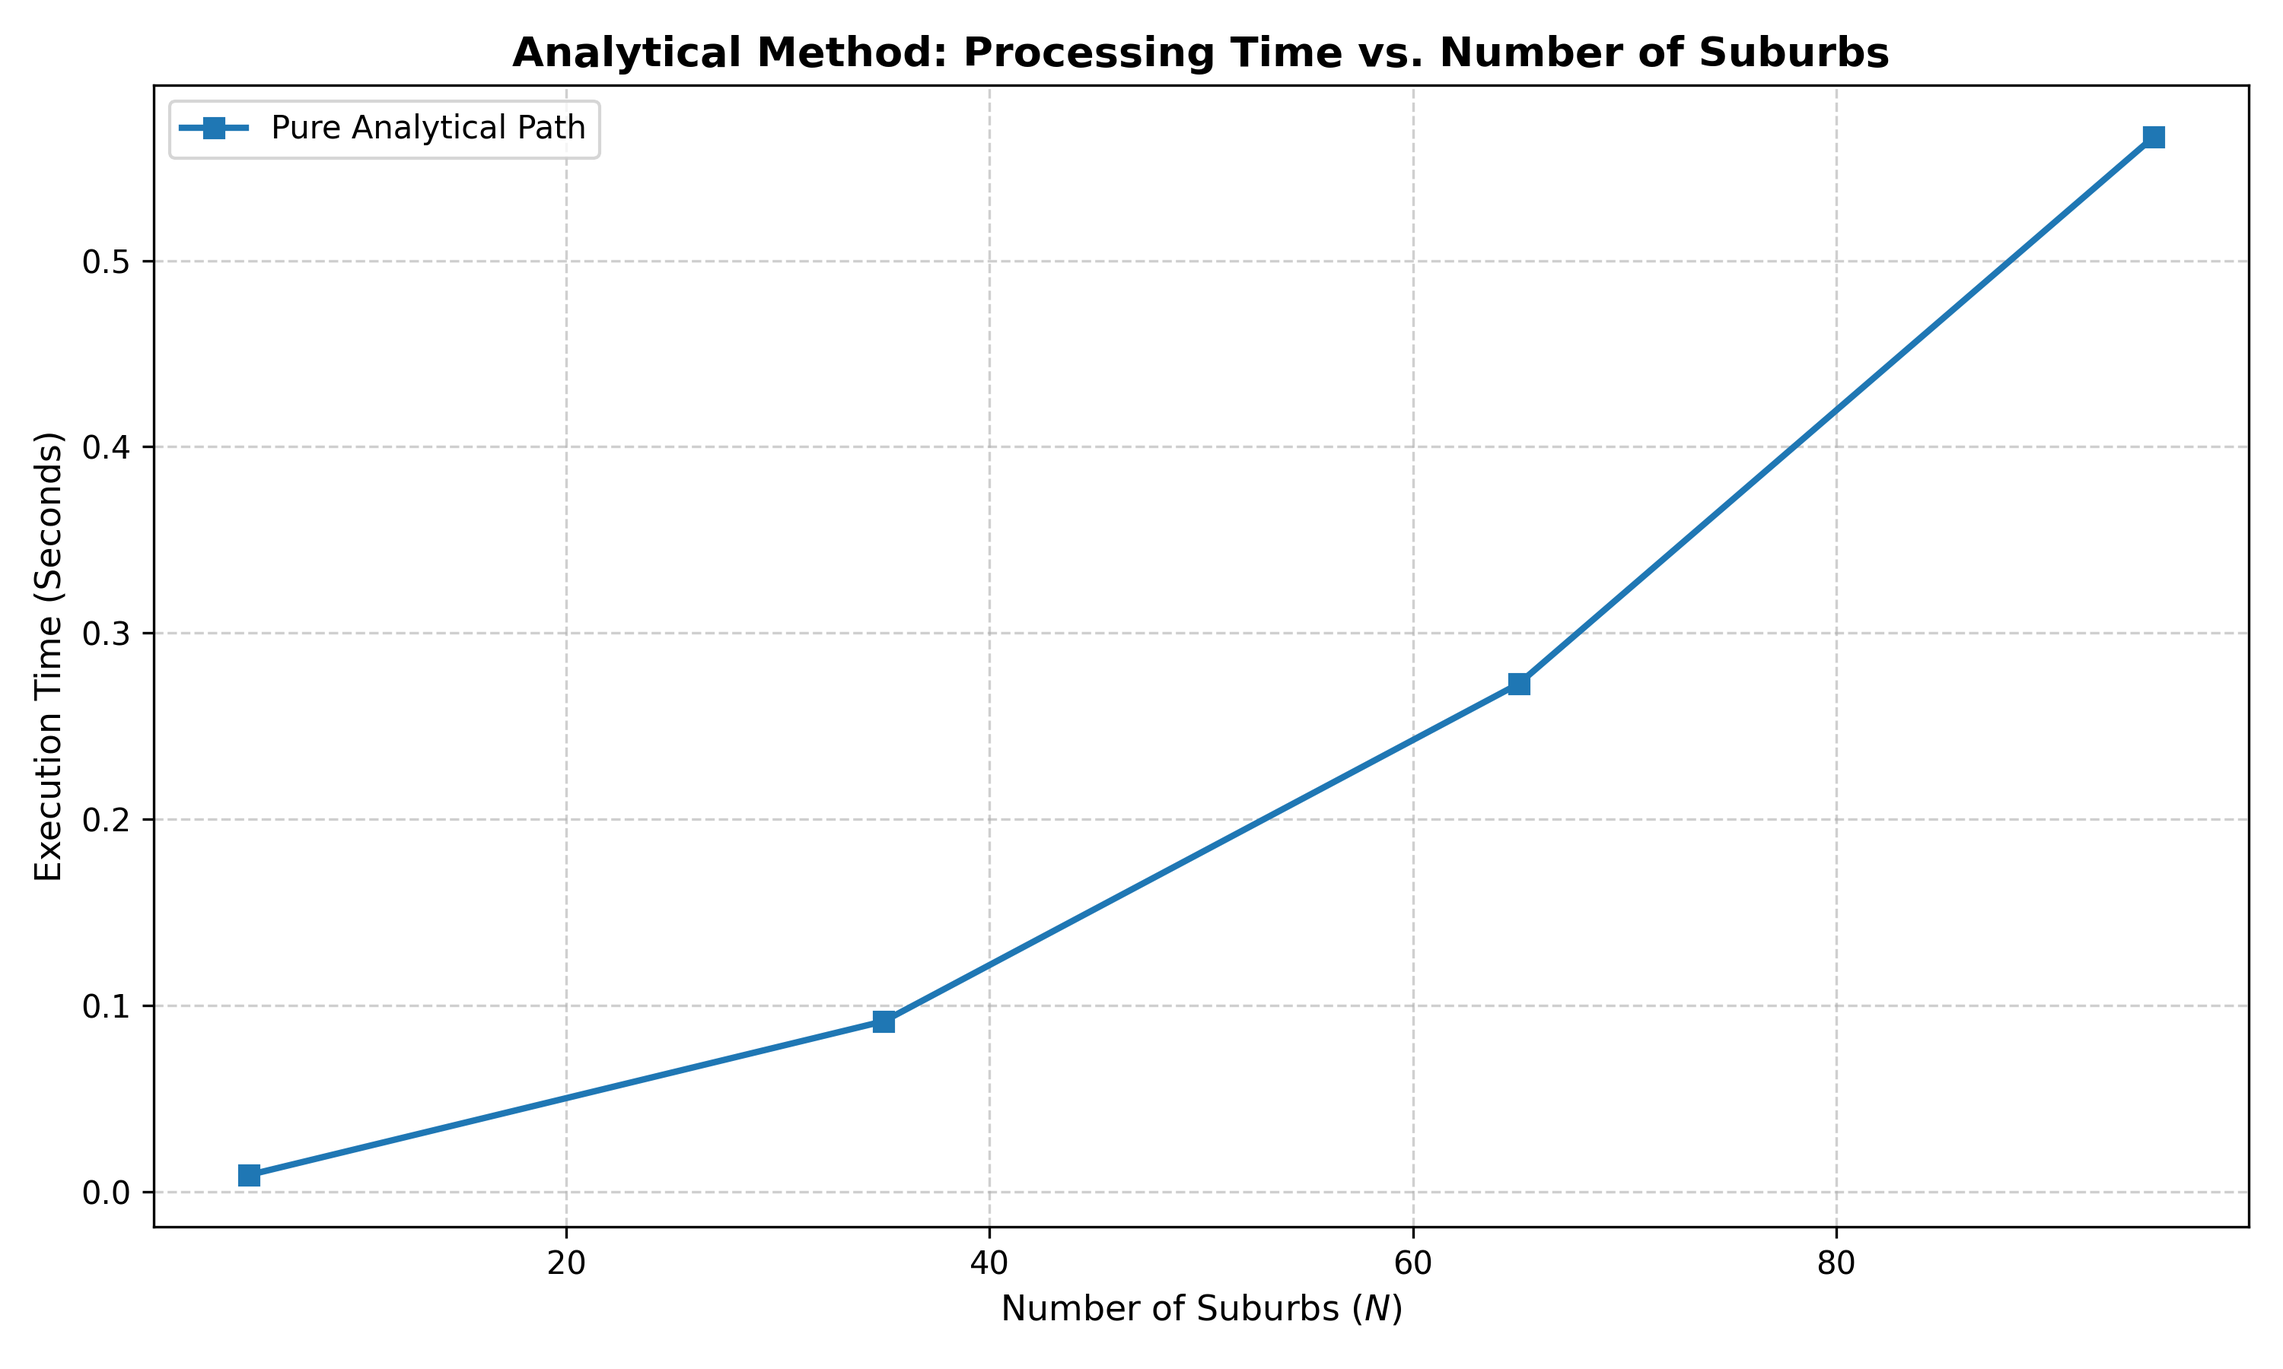
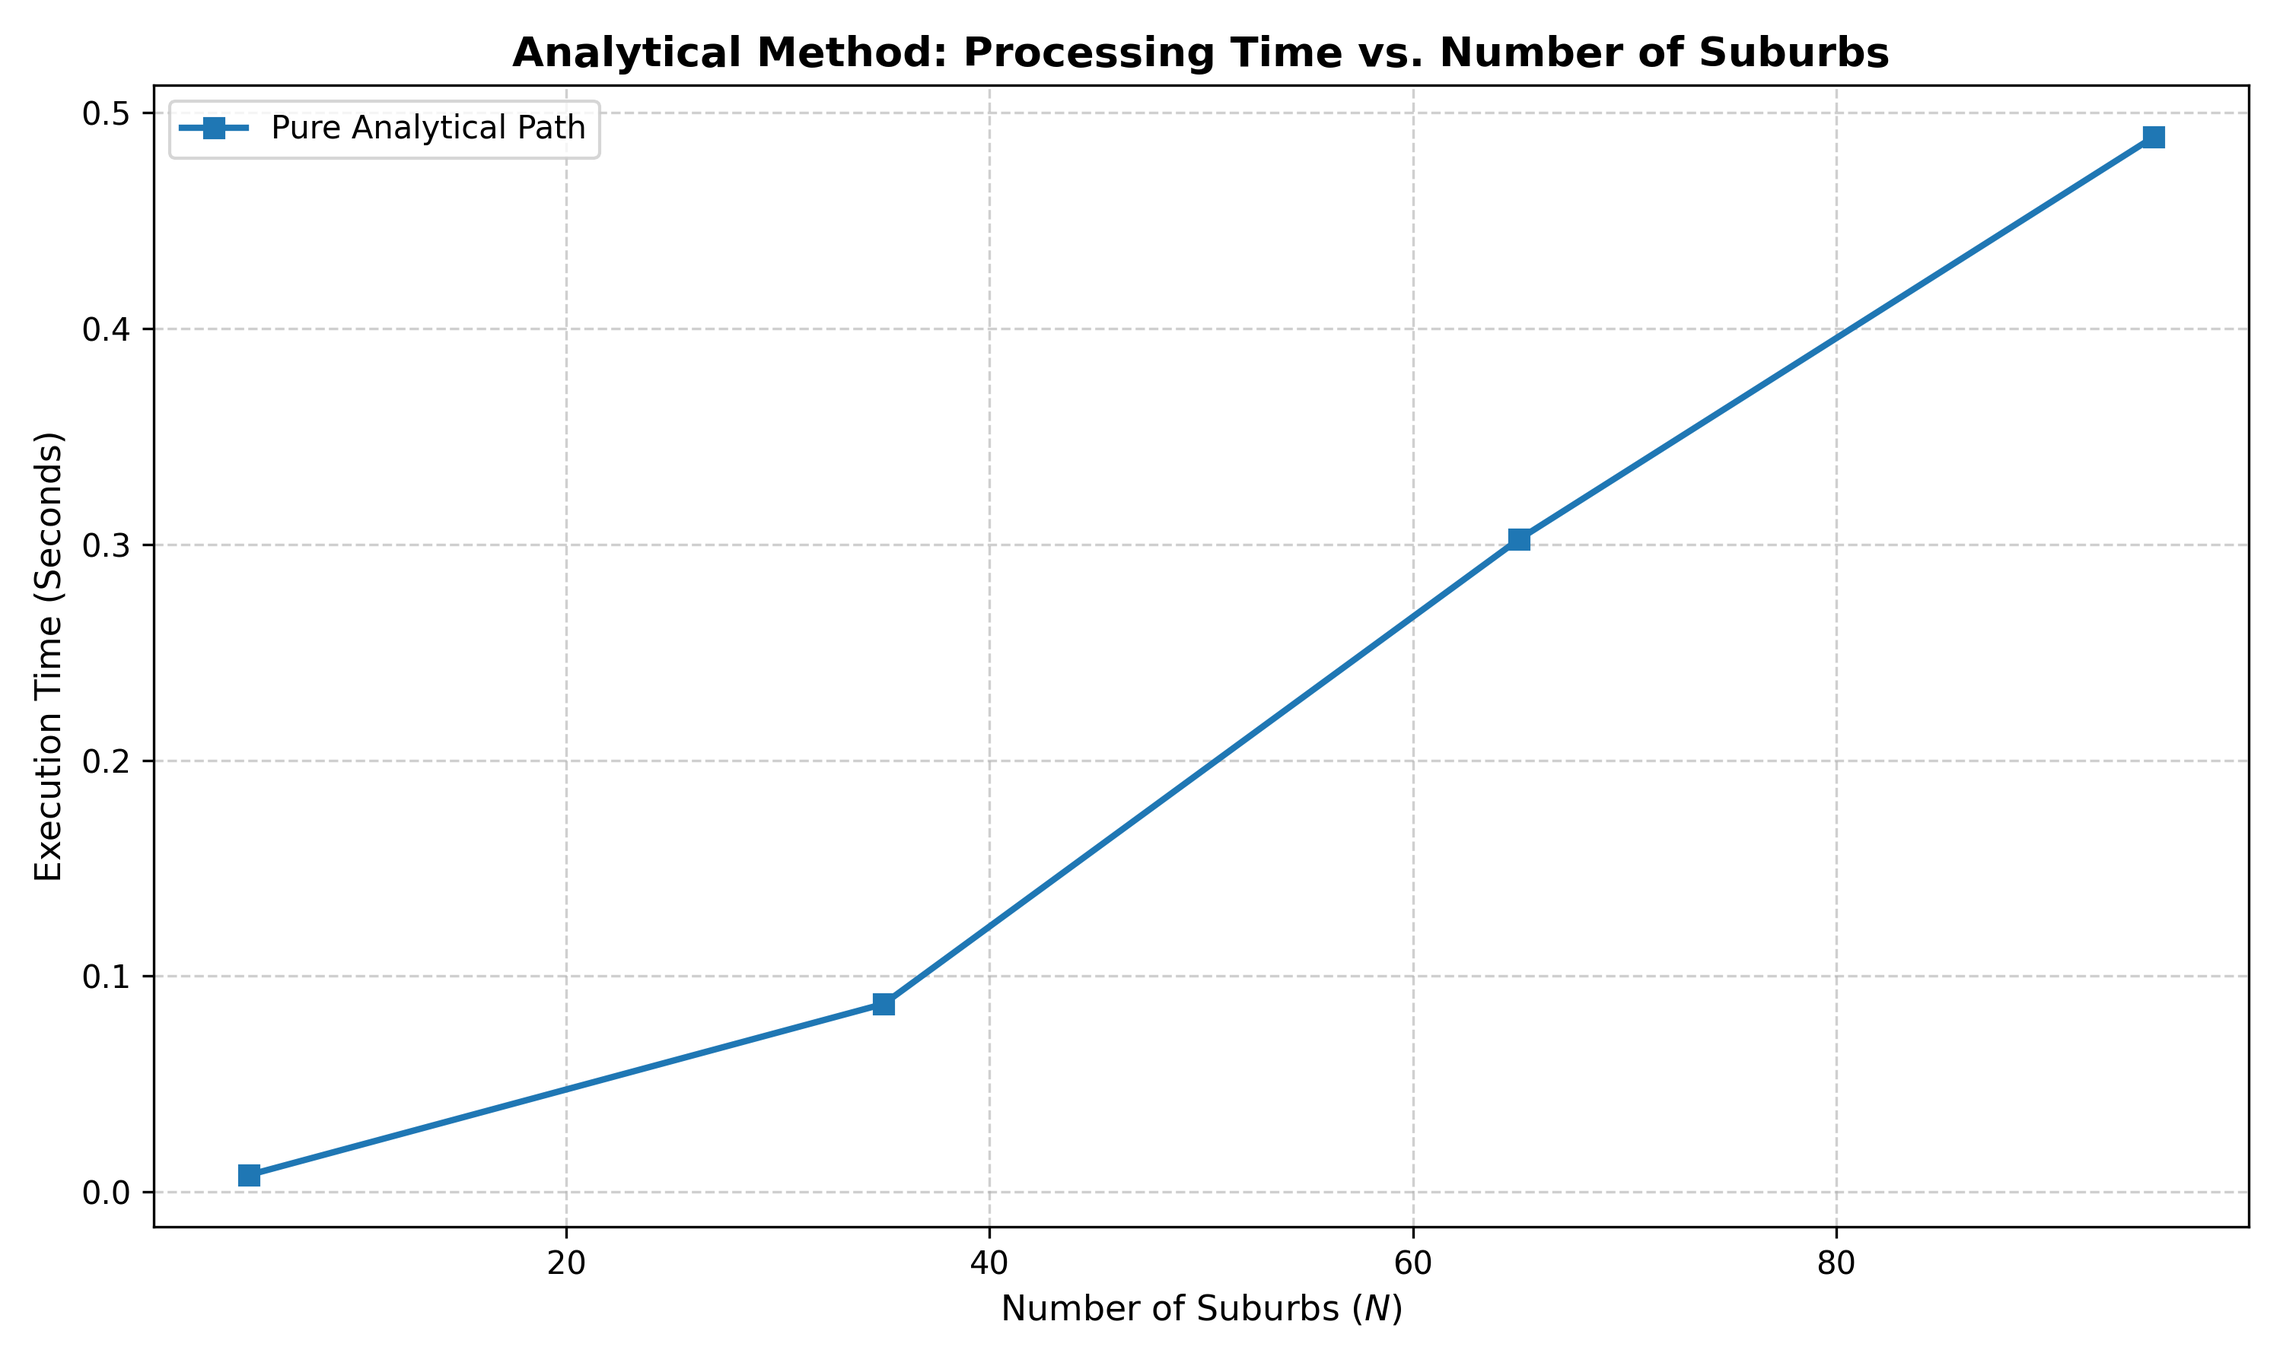
edited graphs

diff --git a/subway.py b/subway.py
@@ -61,6 +61,7 @@ def compute_c_prime(L, df, a):
 
     return c_prime_sum
 
+# function to find the best main_length using binary search
 def find_best_L_analytical(df, a, epsilon=1e-6):
     # absolute maximum upper bound based on furthest suburb
     max_search_bound = float(df["suburb_y"].max())
@@ -153,6 +154,129 @@ def get_optimal_connection(df, main_length, a): # C*(L)
 
     return actual_connections, total_network_cost
 
+def draw_steps(df, a, colors = ["green", "orange", "purple", "#ff7f0e", "#17becf"]):
+    fig, axes = plt.subplots(2, 3, figsize=(16, 10), sharex=True, sharey=True)
+    axes = axes.flatten()
+
+    suburbs = df.copy()
+    suburbs["star_y"] = [get_star_point_analytical(x, y, a) for x, y in zip(suburbs["suburb_x"], suburbs["suburb_y"])]
+    suburbs = suburbs.sort_values(by="star_y").reset_index(drop=True)
+
+    star_1 = suburbs["star_y"].iloc[0]
+    star_2 = suburbs["star_y"].iloc[1]
+    star_3 = suburbs["star_y"].iloc[2]
+
+    panel_titles = [
+        "Start w/ downtown and suburbs",
+        "Find a suburb's star point",
+        "Identify all ideal star points",
+        "Try everything up to first star point",
+        "Try up to second star point",
+        "Repeat for all star points"
+    ]
+
+    for i in range(6):
+        ax = axes[i]
+        ax.grid(True, linestyle="--", alpha=0.5)
+        ax.set_xlim(-3, 3)
+        ax.set_ylim(-0.5, main_length + 0.5)
+
+        # downtown at (0, 0)
+        ax.scatter(0, 0, color="black", s=300, zorder=6, label = "Downtown")
+
+        # panel 1: just downtown and suburbs
+        if i == 0:
+            for idx, row in suburbs.iterrows():
+                sub_color = colors[idx % len(colors)]
+                ax.scatter(row["suburb_x"], row["suburb_y"], color=sub_color, s=90, edgecolors="black", zorder=4, label = "Suburb " + str(idx + 1))
+                ax.legend(loc="lower left", fontsize=8, markerscale=0.7, labelspacing=1)
+
+        # panel 2: finding one star point
+        elif i == 1:
+            ax.plot([0, 0], [0, float(suburbs["suburb_y"].max())], color="black", linewidth=3, zorder=2)
+
+            target_idx = len(suburbs)-1
+            target_sub = suburbs.iloc[target_idx]
+            sub_color = colors[target_idx % len(colors)]
+
+            # draws line, suburb, and star
+            ax.scatter(target_sub["suburb_x"], target_sub["suburb_y"], color=sub_color, s=90, edgecolors="black", zorder=4)
+            ax.scatter(0, target_sub["star_y"], color=sub_color, marker="*", s=120, edgecolors="black", zorder=4, label = "Ideal Star Point")
+            ax.plot([target_sub["suburb_x"], 0], [target_sub["suburb_y"], target_sub["star_y"]], color=sub_color, linestyle="-", zorder=3)
+
+            # draws checked lines
+            label = "Trials"
+            for check_y in np.linspace(0, float(suburbs["suburb_y"].max()), 5):
+                if not np.isclose(check_y, target_sub["star_y"]):
+                    ax.plot([target_sub["suburb_x"], 0], [target_sub["suburb_y"], check_y], color=sub_color, linestyle="--", alpha=0.4, zorder=3, label=label)
+                label = None
+            ax.legend(loc="lower left", fontsize=8, markerscale=0.7, labelspacing = 1)   
+
+        # panel 3: show all suburbs with their star points
+        elif i == 2:
+            ax.plot([0, 0], [0, float(suburbs["suburb_y"].max())], color="black", linewidth=3, zorder=2)
+            for idx, row in suburbs.iterrows():
+                sub_color = colors[idx % len(colors)]
+                ax.scatter(row["suburb_x"], row["suburb_y"], color=sub_color, s=90, edgecolors="black", zorder=4)
+                ax.scatter(0, row["star_y"], color=sub_color, marker="*", s=120, edgecolors="black", zorder=4)
+                ax.plot([row["suburb_x"], 0], [row["suburb_y"], row["star_y"]], color=sub_color, linewidth=1.5, alpha=0.6)
+            
+
+        else:
+            # panel 4: up to first star
+            if i == 3:
+                trial_lengths = np.linspace(0.1, star_1, 4)
+            # panel 4: up to second star
+            elif i == 4:
+                trial_lengths = np.linspace(star_1, star_2, 4)
+            # panel 5: up to third star
+            else:
+                trial_lengths = np.linspace(star_2, star_3, 4)
+
+            for trial_L in trial_lengths:
+                ax.plot([0, 0], [0, trial_L], color="black", linewidth=3, alpha=0.4, zorder=2)
+                trial_conns, _ = get_optimal_connection(suburbs, trial_L, a)
+                ax.scatter(0, trial_L, color="black", marker="_", s=150, linewidths=2, alpha=0.6, zorder=3)
+
+                for idx, row in suburbs.iterrows():
+                    sub_color = colors[idx % len(colors)]
+                    conn_y = trial_conns[idx]
+                    line_style = "-" if np.isclose(conn_y, row["star_y"]) else "--"
+                    
+                    ax.plot([row["suburb_x"], 0], [row["suburb_y"], conn_y], 
+                            color=sub_color, linestyle=line_style, linewidth=1.5, alpha=0.25, zorder=3)
+                    
+            final_L = trial_lengths[-1]
+            ax.plot([0, 0], [0, final_L], color="black", linewidth=5, zorder=3)
+            final_conns, _ = get_optimal_connection(suburbs, final_L, a)
+            
+            for idx, row in suburbs.iterrows():
+                sub_color = colors[idx % len(colors)]
+                conn_y = final_conns[idx]
+                
+                ax.scatter(row["suburb_x"], row["suburb_y"], color=sub_color, s=90, edgecolors="black", zorder=4)
+                
+                line_style = "-" if np.isclose(conn_y, row["star_y"]) else "--"
+                
+                ax.plot([row["suburb_x"], 0], [row["suburb_y"], conn_y], color=sub_color, linestyle=line_style, linewidth=2.5, zorder=4)
+                ax.scatter(0, conn_y, color=sub_color, marker="*", s=120, edgecolors="black", zorder=4)
+
+        ax.text(0.05, 0.93, panel_titles[i], transform=ax.transAxes, fontsize=11, weight='bold',
+                bbox=dict(facecolor='#E8DAEF', edgecolor='none', pad=6, alpha=0.9))
+        
+        if i == 4:
+            ax.text(0.6, 0.25, "First suburb is anchored\nto its Star point", transform=ax.transAxes, fontsize=10,
+                    bbox=dict(facecolor='#E8DAEF', edgecolor='none', pad=5, alpha=0.9))
+            
+        fig.text(0.5, 0.02, "Take the best of best of all networks!", transform=fig.transFigure, fontsize=13, weight='bold',
+             color="black", ha="center", bbox=dict(facecolor='#FEDBB5', edgecolor='none', pad=8))
+    plt.suptitle("Visualizing Algorithm Steps", fontsize=14, weight="bold",)
+    plt.tight_layout()
+    plt.subplots_adjust(bottom=0.08)
+    plt.savefig("optimal_subway_algorithm_generated.png", dpi=300)
+    plt.show()
+
+# function that draws what the network looks like at different main_lengths
 def draw_networks(df, a, best_L, main_length, graph_num = 6, colors = ["#1f77b4", "#9467bd", "#e377c2", "#ff7f0e", "#17becf"]):
     
     plot_candidates = np.linspace(0, main_length, graph_num)
@@ -165,8 +289,7 @@ def draw_networks(df, a, best_L, main_length, graph_num = 6, colors = ["#1f77b4"
         ax.grid(True, linestyle="--", alpha=0.5)
 
         actual_connections, display_cost = get_optimal_connection(df, L, a)
-
-        ax.scatter(0, 0, color="red", s=150, marker="*", zorder=5, label="Downtown")  # downtown
+        ax.scatter(0, 0, color="black", s=300, zorder=5, label="Downtown")  # downtown
         ax.plot([0, 0], [0, L], color="black", linewidth=4, zorder=2, label="Mainline")  # mainline
         ax.plot([0, 0], [L, main_length], color="black", linewidth=2, linestyle=":", alpha=0.3)  # possible mainline
 
@@ -193,15 +316,14 @@ def draw_networks(df, a, best_L, main_length, graph_num = 6, colors = ["#1f77b4"
         ax.set_ylim(-0.5, main_length + 0.5)
 
         if i == 0:
-            ax.legend(loc="upper left", fontsize=8)
+            ax.legend(loc="upper left", fontsize=8, markerscale=0.7,labelspacing=0.8)
 
     plt.suptitle("Visualizing 6 Representative Samples", fontsize=14, weight="bold",)
     plt.tight_layout()
     plt.savefig("network_layout.png", dpi=300)
     plt.show()
 
-# plot graph of cost vs main_length, pointing out minimum cost, and ploting star points
-# HAVEN'T ADDED DOUBLE STAR POINTS DUE TO IT NOT BEING TRACKED
+# function that plots graph of cost vs main_length, pointing out minimum cost, ploting star points and double star points
 def plot_cost_optimization(df, a):
     # gets the star points and sorts them
     df["star_y"] = [
@@ -297,6 +419,7 @@ def plot_cost_optimization(df, a):
     plt.savefig("cost_vs_length_optimization.png", dpi=300)
     plt.show()
 
+# function that returns
 def run_timing_comparison(df_base, a, main_length):
 
     # brute force star points
@@ -350,7 +473,6 @@ def analytical_vs_brute(min_suburbs = 5, max_suburbs = 100, step = 30, a = 0.5, 
     suburb_counts = []
     analytical_times = []
     brute_force_times = []
-
     csv_records = []
 
     for num_suburbs in range(min_suburbs, max_suburbs + 1, step): # NUMBER OF SUBURBS ISN"T RANDOM
@@ -421,139 +543,33 @@ def analytical_vs_brute(min_suburbs = 5, max_suburbs = 100, step = 30, a = 0.5, 
     plt.savefig("analytical_vs_suburbs.png", dpi=300)
     plt.close()  # closes the figure container to start fresh
 
-    # analytical vs suburbs amount
-    plt.figure(figsize=(10, 6))
-    plt.grid(True, linestyle="--", alpha=0.6)
-    plt.plot(
-        suburb_counts,
-        analytical_times,
-        color="#1f77b4",
-        marker="s",
-        linewidth=2,
-        label="Pure Analytical Path",
-    )
-    plt.title(
-        "Analytical Method: Processing Time vs. Number of Suburbs",
-        fontsize=13,
-        weight="bold",
-    )
-    plt.xlabel("Number of Suburbs ($N$)", fontsize=11)
-    plt.ylabel("Execution Time (Seconds)", fontsize=11)
-    plt.legend(loc="upper left")
-    plt.tight_layout()
-    plt.savefig("analytical_vs_suburbs.png", dpi=300)
-    plt.close()  # closes the figure container to start fresh
-
     # analytical vs brute force
-    fig, ax = plt.subplots(figsize=(8, 8))  # Use square subplots for equal scale mapping
-    ax.grid(True, linestyle="--", alpha=0.6)
+    x = np.arange(len(suburb_counts))  # label locations based on loop steps
+    width = 0.35  # width of each individual bar
 
-    # 1. FORCE EQUAL ASPECT RATIO (1 second X = 1 second Y)
-    ax.set_aspect("equal", adjustable="box")
+    fig, ax = plt.subplots(figsize=(10, 6))
 
-    # 2. MATCH AXIS STEP LIMITS DYNAMICALLY
-    global_min = min(min(brute_force_times), min(analytical_times)) * 0.9
-    global_max = max(max(brute_force_times), max(analytical_times)) * 1.1
-    ax.set_xlim(global_min, global_max)
-    ax.set_ylim(global_min, global_max)
-
-    # 3. ADD A 1:1 PERFORMANCE BASKET REFERENCE LINE
-    ax.plot(
-        [global_min, global_max],
-        [global_min, global_max],
-        color="gray",
-        linestyle="--",
-        alpha=0.7,
-        label="1:1 Equal Speed Line",
+    # Create side-by-side bars
+    ax.bar(
+        x - width / 2, analytical_times, width, label="Analytical", color= "#e377c2"
+    )
+    ax.bar(
+        x + width / 2, brute_force_times, width, label="Brute Force", color= "#17becf"
     )
 
-    # 4. PLOT TIMING CORRELATIONS
-    ax.scatter(
-        brute_force_times,
-        analytical_times,
-        color="#2ca02c",
-        edgecolor="black",
-        s=80,
-        zorder=5,
-        label="Measured Batch Runtimes",
-    )
-    ax.plot(
-        brute_force_times,
-        analytical_times,
-        color="#2ca02c",
-        linestyle=":",
-        alpha=0.5,
-    )
-
-    for (
-        count,
-        x_val,
-        y_val,
-    ) in zip(suburb_counts, brute_force_times, analytical_times):
-        ax.annotate(
-            f" N={count}",
-            xy=(x_val, y_val),
-            xytext=(5, -2),
-            textcoords="offset points",
-            fontsize=9,
-        )
-
-    ax.set_title(
-        "Algorithm Time Correlation: Analytical vs. Brute Force",
-        fontsize=13,
-        weight="bold",
-    )
-    ax.set_xlabel("Brute Force Execution Time (Seconds)", fontsize=11)
-    ax.set_ylabel("Analytical Execution Time (Seconds)", fontsize=11)
-    ax.legend(loc="upper left")
+    # add labels and formatting
+    ax.set_xlabel("Number of Suburbs")
+    ax.set_ylabel("Execution Time (seconds)")
+    ax.set_title("Runtime Comparison: Analytical vs. Brute Force Method")
+    ax.set_xticks(x)
+    ax.set_xticklabels(suburb_counts)
+    ax.legend()
+    ax.grid(axis="y", linestyle="--", alpha=0.7)
 
     plt.tight_layout()
-    plt.savefig("analytical_vs_brute_force_time.png", dpi=300)
-    plt.close(fig)
+    plt.savefig("analytical_vs_brute.png", dpi=300)
+    plt.show()
 
-"""
-    # analytical vs brute force
-    plt.figure(figsize=(10, 6))
-    plt.grid(True, linestyle="--", alpha=0.6)
-    plt.scatter(
-        brute_force_times,
-        analytical_times,
-        color="#2ca02c",
-        edgecolor="black",
-        s=80,
-        zorder=5,
-        label="Measured Batch Runtimes"
-    )
-    plt.plot(
-        brute_force_times,
-        analytical_times,
-        color="#2ca02c",
-        linestyle=":",
-        alpha=0.5
-    )
-
-    for count, x_val, y_val in zip(suburb_counts, brute_force_times, analytical_times):
-        plt.annotate(
-            f" N={count}", 
-            xy=(x_val, y_val), 
-            xytext=(5, -2), 
-            textcoords="offset points", 
-            fontsize=9
-        )
-
-    plt.title(
-        "Algorithm Time Correlation: Analytical vs. Brute Force",
-        fontsize=13,
-        weight="bold",
-    )
-    plt.xlabel("Brute Force Execution Time (Seconds)", fontsize=11)
-    plt.ylabel("Analytical Execution Time (Seconds)", fontsize=11)
-    plt.legend(loc="upper left")
-    
-    plt.tight_layout()
-    plt.savefig("analytical_vs_brute_force_time.png", dpi=300)
-    plt.close()
-    """
 
 def generate_network_tradeoff(df_base, alpha_spectrum = [0.1, 0.3, 0.5, 0.7, 0.9]):
     wiring_costs = []
@@ -714,15 +730,8 @@ df = pd.DataFrame(
         "suburb_y": [2, 5, 3],
     }
 )
-generate_network_tradeoff(df)
-plot_cost_optimization(df, a)
-metrics = run_timing_comparison(df, a, main_length)
-print("Time for brute force method:", metrics["total_bf_time"])
-print("Time for analytical method:", metrics["total_an_time"])
-bf_y, an_y = compare(df, a, main_length)
-print("Brute force star points:", bf_y)
-print("Analytical star points:", an_y)
-print()
+
+draw_steps(df, a)
 
 star_y_list = [get_star_point_analytical(x, y, a) for x, y in zip(df["suburb_x"], df["suburb_y"])]
 
@@ -739,6 +748,18 @@ print(f"\n[Calculus Search] Best Mainline Length: {best_L:.6f}")
 print(f"[Calculus Search] Minimum Overall Network Cost: {min_cost:.6f}")
 
 draw_networks(df, a, best_L, main_length)
+"""
+generate_network_tradeoff(df)
+plot_cost_optimization(df, a)
+metrics = run_timing_comparison(df, a, main_length)
+print("Time for brute force method:", metrics["total_bf_time"])
+print("Time for analytical method:", metrics["total_an_time"])
+bf_y, an_y = compare(df, a, main_length)
+print("Brute force star points:", bf_y)
+print("Analytical star points:", an_y)
+print()
+
+
 
 
 # checking for best network among many many networks
@@ -759,7 +780,8 @@ for L in mainline_candidates:
 
 print(f"\n[Brute Force] Best Mainline Length: {best_L:.6f}")
 print(f"[Brute Force] Minimum Overall Network Cost: {best_overall_cost:.6f}")
-#analytical_vs_brute()
+analytical_vs_brute()
 
 
 
+"""
